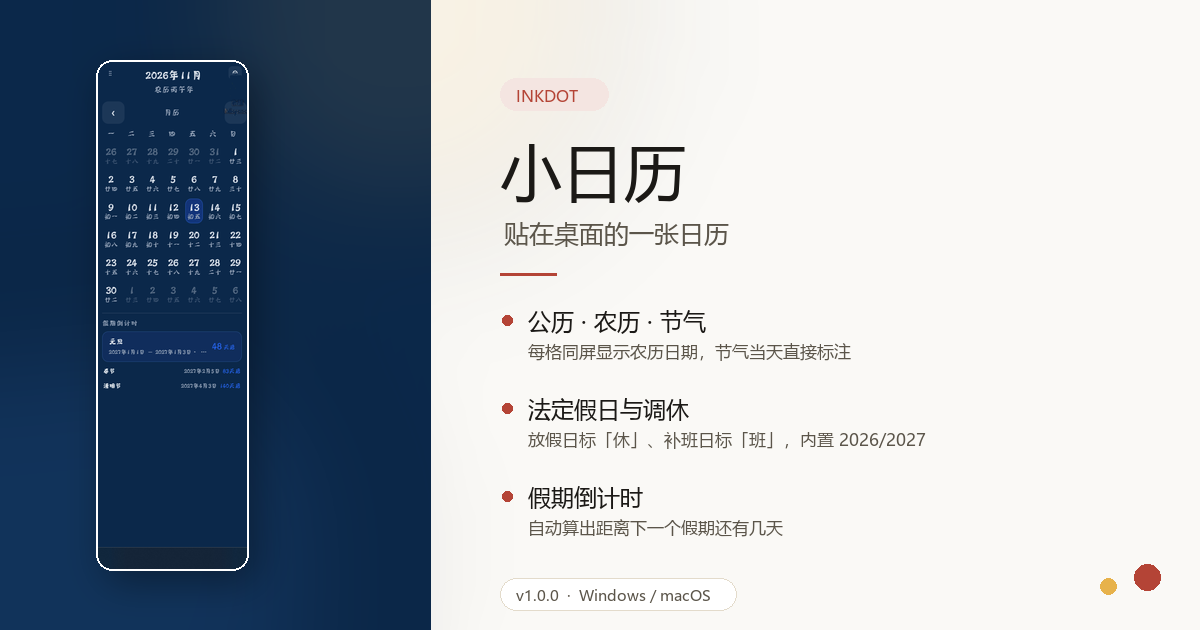
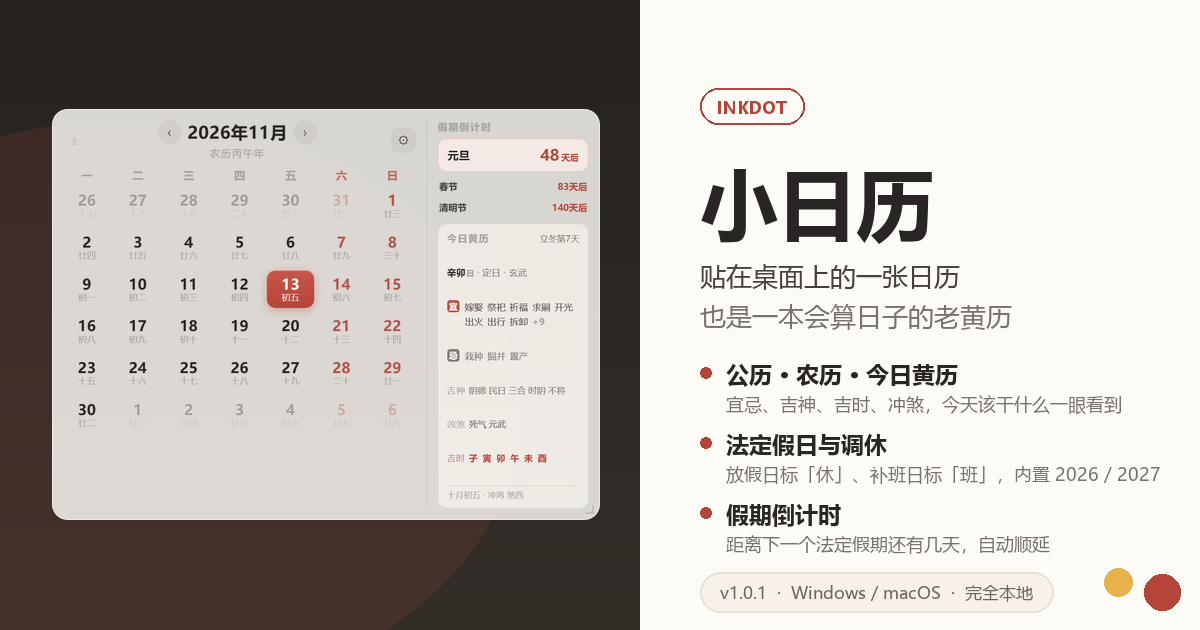
feat: rili 1.0.1 上架信息更新
- 版本号与 4 个下载链接切到 v1.0.1
- 卖点补充「今日黄历」：宜忌 / 吉神凶煞 / 黄道吉时 / 冲鸡煞西
- 教程页新增「翻一页今日黄历」步骤（共 7 步）+ 民俗免责说明
- 教程头图换新：真实横排界面（墨点·朱砂配色 + 黄历侧栏）

diff --git a/src/data/apps.ts b/src/data/apps.ts
@@ -54,7 +54,7 @@ const BAT_RELEASE = "https://github.com/lizundao/batch-rename/releases/download/
 const CM_RELEASE = "https://github.com/lizundao/clear-meta/releases/download/v0.1.0/";
 const SEAL_RELEASE = "https://github.com/lizundao/seal-extractor/releases/download/v1.1.0/";
 const TIXINGMAO_RELEASE = "https://github.com/lizundao/tixingmao/releases/download/v1.0.1/";
-const RILI_RELEASE = "https://github.com/lizundao/rili/releases/download/v1.0.0/";
+const RILI_RELEASE = "https://github.com/lizundao/rili/releases/download/v1.0.1/";
 
 export const apps: App[] = [
   {
@@ -639,15 +639,15 @@ export const apps: App[] = [
   {
     id: "rili",
     name: "小日历",
-    tagline: "桌面 Widget · 农历节气 · 法定假日",
-    summary: "常驻桌面一角的轻量日历，农历、节气、法定假日与调休一目了然，还能倒计时下一个假期。",
+    tagline: "桌面 Widget · 农历节气 · 今日黄历",
+    summary: "常驻桌面一角的轻量日历，农历、节气、法定假日与调休一目了然，横排还能看今日宜忌与吉时，顺带倒计时下一个假期。",
     description:
-      "墨点出品的桌面常驻小日历（Windows / macOS 原生，基于 Tauri 2）。无边框、半透明、可置顶，关窗即收进托盘；公历 + 农历 + 二十四节气同屏显示，内置 2026 / 2027 法定假日与调休并以「休 / 班」徽章标注，自动计算下一个法定假期倒计时。所有数据保存在本机，不联网。",
-    version: "1.0.0",
+      "墨点出品的桌面常驻小日历（Windows / macOS 原生，基于 Tauri 2）。无边框、半透明、可置顶，关窗即收进托盘；公历 + 农历 + 二十四节气同屏显示，内置 2026 / 2027 法定假日与调休并以「休 / 班」徽章标注。横排布局的侧栏是一页今日黄历：宜忌、吉神凶煞、黄道吉时、冲鸡煞西，按 tyme4ts 历法当场推算。所有数据保存在本机，不联网。",
+    version: "1.0.1",
     updated: "2026-11-13",
     icon: "/assets/img/rili-icon.png",
     cover: "/assets/img/rili-cover.png",
-    tags: ["日历", "桌面Widget", "农历", "节气", "法定假日", "调休", "假期倒计时", "托盘"],
+    tags: ["日历", "桌面Widget", "农历", "节气", "今日黄历", "宜忌", "法定假日", "调休", "假期倒计时", "托盘"],
     featured: true,
     status: "live",
     url: "/apps/rili/",
@@ -655,10 +655,10 @@ export const apps: App[] = [
     platforms: ["Windows", "macOS"],
     repo: "https://github.com/lizundao/rili",
     downloads: [
-      { label: "Windows 便携版", os: "Windows", note: "解压即用 · 单文件 exe", url: RILI_RELEASE + "rili-1.0.0-portable-win-x64.zip" },
-      { label: "Windows 安装包", os: "Windows", note: "NSIS 安装 · 当前用户目录", url: RILI_RELEASE + "rili-1.0.0-setup-win-x64.exe" },
-      { label: "macOS（Apple 芯片）", os: "macOS", note: "dmg 镜像 · aarch64", url: RILI_RELEASE + "rili-1.0.0-aarch64.dmg" },
-      { label: "macOS app（备选）", os: "macOS", note: "app 压缩包 · dmg 打不开时用", url: RILI_RELEASE + "rili-1.0.0-aarch64.app.zip" },
+      { label: "Windows 便携版", os: "Windows", note: "解压即用 · 单文件 exe", url: RILI_RELEASE + "rili-1.0.1-portable-win-x64.zip" },
+      { label: "Windows 安装包", os: "Windows", note: "NSIS 安装 · 当前用户目录", url: RILI_RELEASE + "rili-1.0.1-setup-win-x64.exe" },
+      { label: "macOS（Apple 芯片）", os: "macOS", note: "dmg 镜像 · aarch64", url: RILI_RELEASE + "rili-1.0.1-aarch64.dmg" },
+      { label: "macOS app（备选）", os: "macOS", note: "app 压缩包 · dmg 打不开时用", url: RILI_RELEASE + "rili-1.0.1-aarch64.app.zip" },
       { label: "百度网盘（备用）", os: "网盘", note: "免输码直达 · 永久有效", url: "https://pan.baidu.com/s/1WsaxPe9E6kHvsvtYgDR0UA?pwd=aqye", code: "aqye", external: true },
     ],
     features: [
@@ -669,6 +669,7 @@ export const apps: App[] = [
       { k: "中国历", v: "公历 + 农历 + 二十四节气同屏，基于开源历法库 tyme4ts" },
       { k: "法定假日与调休", v: "内置 2026 / 2027 国务院放假安排，日历上以「休 / 班」徽章标注并正确识别调休上班日" },
       { k: "假期倒计时", v: "自动计算今天距离下一个法定假期还有几天，一眼可见" },
+      { k: "今日黄历", v: "横排侧栏一页今日黄历：宜忌、吉神凶煞、黄道吉时、冲鸡煞西，当天现场推算" },
       { k: "自己加节日", v: "新一年放假安排公布后，可在设置里按年份导入自己的节日与调休" },
     ],
     modules: [
@@ -676,8 +677,9 @@ export const apps: App[] = [
       { k: "农历与节气", v: "每格显示农历日期，节气当天标注节气名称" },
       { k: "休 / 班徽章", v: "法定放假日标「休」，调休上班日标「班」，与国务院安排一致" },
       { k: "假期倒计时", v: "顶部或侧栏显示「距 XX 假期还有 N 天」" },
+      { k: "今日黄历", v: "宜 / 忌条目、吉神宜趋与凶煞宜忌、黄道吉时、农历与冲煞，横排时随侧栏常驻" },
       { k: "自定义节日", v: "按年份导入法定 / 自定义节日及调休，支持 2/5-2/13、1/31,2/14 等写法" },
-      { k: "个性化", v: "透明度、字号缩放、窗口置顶、开机自启、系统字体切换、竖排 / 横排布局" },
+      { k: "个性化", v: "透明度、字号缩放、窗口置顶、开机自启、系统字体切换、竖排 / 横排布局、黄历开关" },
     ],
     requirements: [
       { k: "操作系统", v: "Windows 10 / 11（64 位）；macOS Apple 芯片（aarch64）" },
@@ -698,20 +700,22 @@ export const apps: App[] = [
     ],
     guide: {
       screenshot: "/assets/img/rili-guide.png",
-      screenshotAlt: "小日历真实界面：深蓝半透明桌面 Widget，月历网格每格带农历日期、今日高亮，下方为假期倒计时列表（元旦、春节、清明节）",
-      lead: "小日历是「贴」在桌面一角的小日历：看日期、看农历节气、看法定假日与调休，还能倒计时下一个假期。下面从下载到摆好你的第一张日历，几分钟走通。",
+      screenshotAlt: "小日历真实界面：暖纸色半透明桌面 Widget，左侧月历网格每格带农历日期、今日为朱砂印章块，右侧为假期倒计时与今日黄历（宜忌、吉神、吉时、冲煞）",
+      lead: "小日历是「贴」在桌面一角的小日历：看日期、看农历节气、看法定假日与调休，横排还附一页今日黄历，顺带倒计时下一个假期。下面从下载到摆好你的第一张日历，几分钟走通。",
       steps: [
         { n: 1, title: "下载与启动", body: "下载 Windows 便携版 zip 并解压到任意目录，双击「rili.exe」启动；也可运行 NSIS 安装版。macOS 打开 dmg 把应用拖入「应用程序」，首次被 Gatekeeper 拦截的处理方式见详情页常见问题。", tip: "便携版不写注册表，删除文件夹即卸载；启动后窗口默认半透明、无边框，像一张便签贴在屏幕上。" },
-        { n: 2, title: "认识桌面日历", body: "窗口是一张整月网格：今天用蓝色描边高亮，每格下方显示农历日期，非本月的日期会淡化。窗口无边框、可拖动，关窗只是收进托盘，左键托盘图标即可重新显隐。", tip: "想让它一直看得见，可在设置里打开「窗口置顶」。" },
+        { n: 2, title: "认识桌面日历", body: "窗口是一张整月网格：今天是一枚朱砂色的印章块，每格下方显示农历日期，非本月的日期会淡化。窗口无边框、可拖动，关窗只是收进托盘，左键托盘图标即可重新显隐。", tip: "想让它一直看得见，可在设置里打开「窗口置顶」。" },
         { n: 3, title: "看农历、节气与法定假日", body: "每格显示农历日期，节气当天会标注节气名称（如「立春」「清明」）。法定放假日以「休」徽章标注，调休上班日以「班」徽章标注，与国务院办公厅安排一致。", tip: "2026 / 2027 年数据已内置，无需手动添加；更晚年份在「设置 → 添加节日」里补。" },
         { n: 4, title: "查看假期倒计时", body: "小日历会自动计算今天距离下一个法定假期还有几天，一眼可见，方便提前安排。下一个假期一过，会自动切换到再下一个。", tip: "倒计时跟随当前展示月份与内置假日数据实时更新。" },
-        { n: 5, title: "个性化摆位", body: "在设置里调节透明度（30%–100%）、字号缩放（80%–160%）、是否使用系统字体、竖排 / 横排布局，以及是否开机自启、是否窗口置顶，把日历调成你顺眼的样子。", tip: "透明度调低一点，可以让它安静地浮在壁纸和窗口之间，不抢视线。" },
-        { n: 6, title: "添加自己的节日与调休", body: "在「设置 → 添加节日」里按年份导入你关心的节日或单位调休，支持 2/5-2/13 这类区间与 1/31,2/14 这类逗号分隔写法，导入后会在月历上以徽章显示。", tip: "官方放假安排更新后，这里补一行就行，不必等软件发版。" },
+        { n: 5, title: "翻一页今日黄历", body: "切到横排布局，右侧除了假期倒计时，还有一页今日黄历：宜与忌的条目、吉神宜趋与凶煞宜忌、当天的黄道吉时，以及农历日期和「冲鸡煞西」。全部由本地历法库按当天干支现算，不联网、不查表。", tip: "不想要这一栏，在「设置 → 横排显示黄历」关掉即可，侧栏会回到只有倒计时的样子。" },
+        { n: 6, title: "个性化摆位", body: "在设置里调节透明度（30%–100%）、字号缩放（80%–160%）、是否使用系统字体、竖排 / 横排布局，以及是否开机自启、是否窗口置顶，把日历调成你顺眼的样子。", tip: "透明度调低一点，可以让它安静地浮在壁纸和窗口之间，不抢视线。" },
+        { n: 7, title: "添加自己的节日与调休", body: "在「设置 → 添加节日」里按年份导入你关心的节日或单位调休，支持 2/5-2/13 这类区间与 1/31,2/14 这类逗号分隔写法，导入后会在月历上以徽章显示。", tip: "官方放假安排更新后，这里补一行就行，不必等软件发版。" },
       ],
       namingTitle: "设置与数据",
       naming: "小日历不生成输出文件：所有自定义节日、调休日期与个性化设置都保存在系统应用数据目录（Windows 在 %APPDATA%\\com.inkdot.calendar，macOS 在 ~/Library/Application Support/com.inkdot.calendar），不上传网络。",
       notes: [
         "农历与二十四节气基于开源历法库 tyme4ts 计算；法定假日内置 2026 / 2027 年（含调休上班日），2028 年及以后请在「设置 → 添加节日」手动导入，不必等软件更新。",
+        "今日黄历的宜忌、吉神凶煞、吉时与冲煞按传统历法规则推算，属民俗文化参考，不构成任何生活或决策建议。",
         "关闭窗口只是收进托盘，仍在后台运行；要完全退出请右键托盘图标选「退出小日历」。",
         "便携版解压即用、不写注册表；个性化设置单独存在应用数据目录，搬运时记得单独备份。",
       ],
